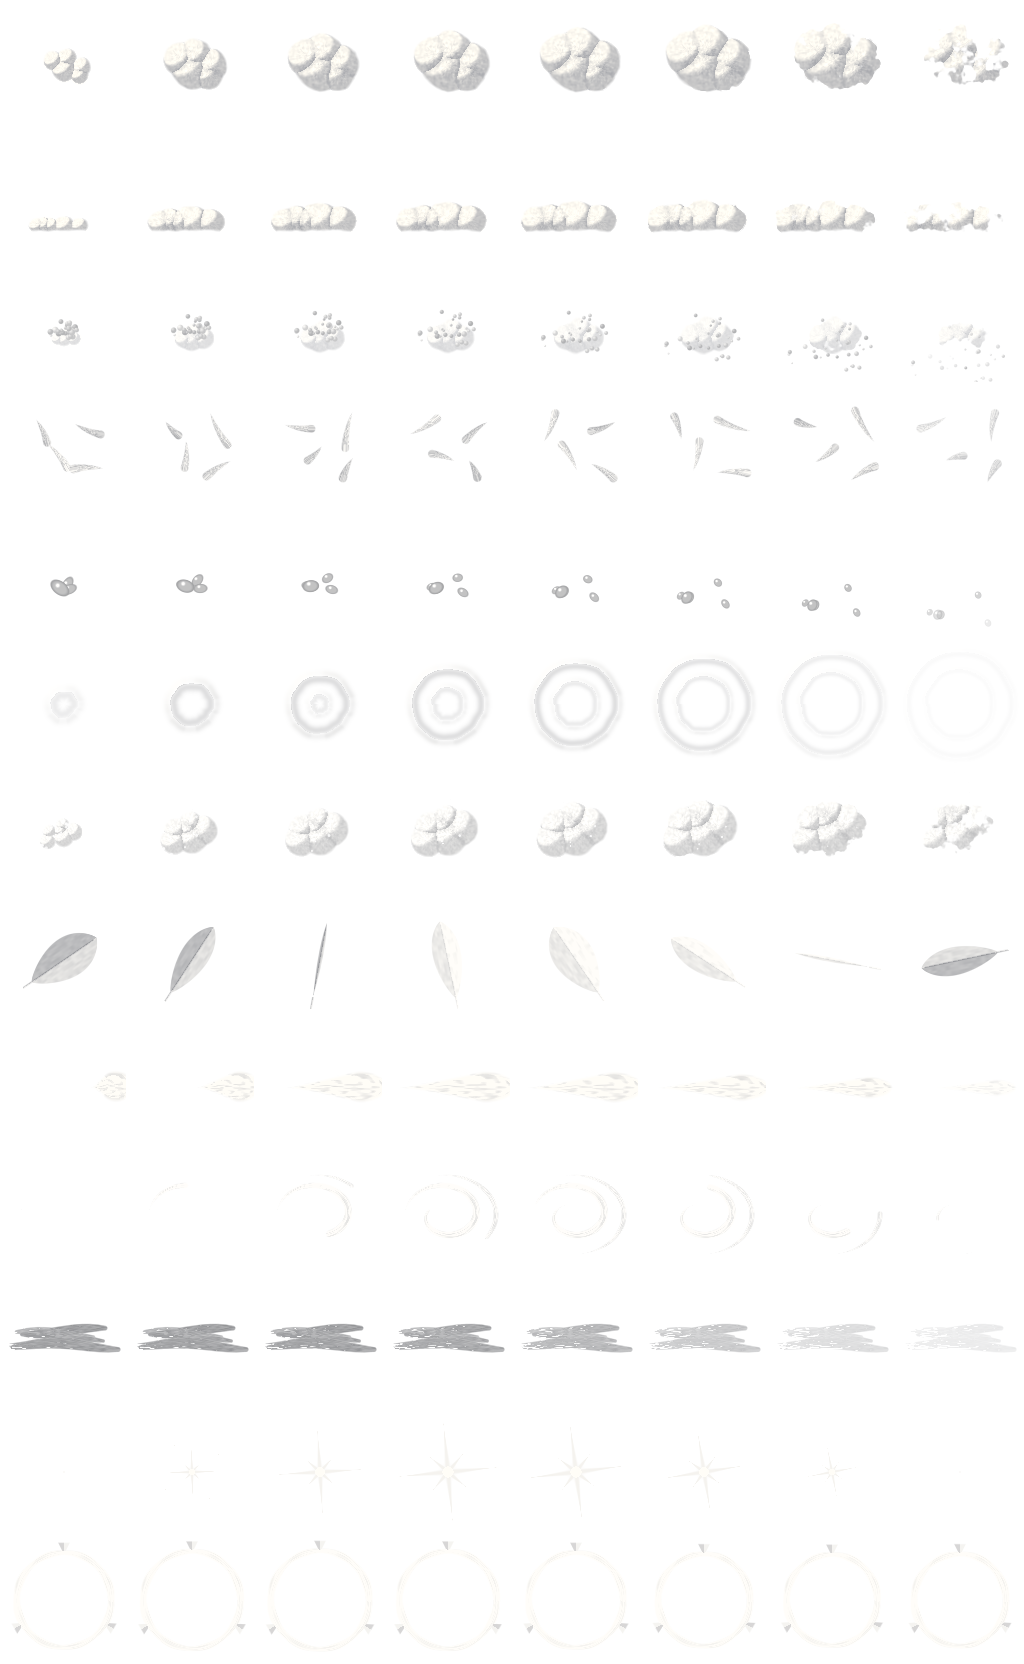
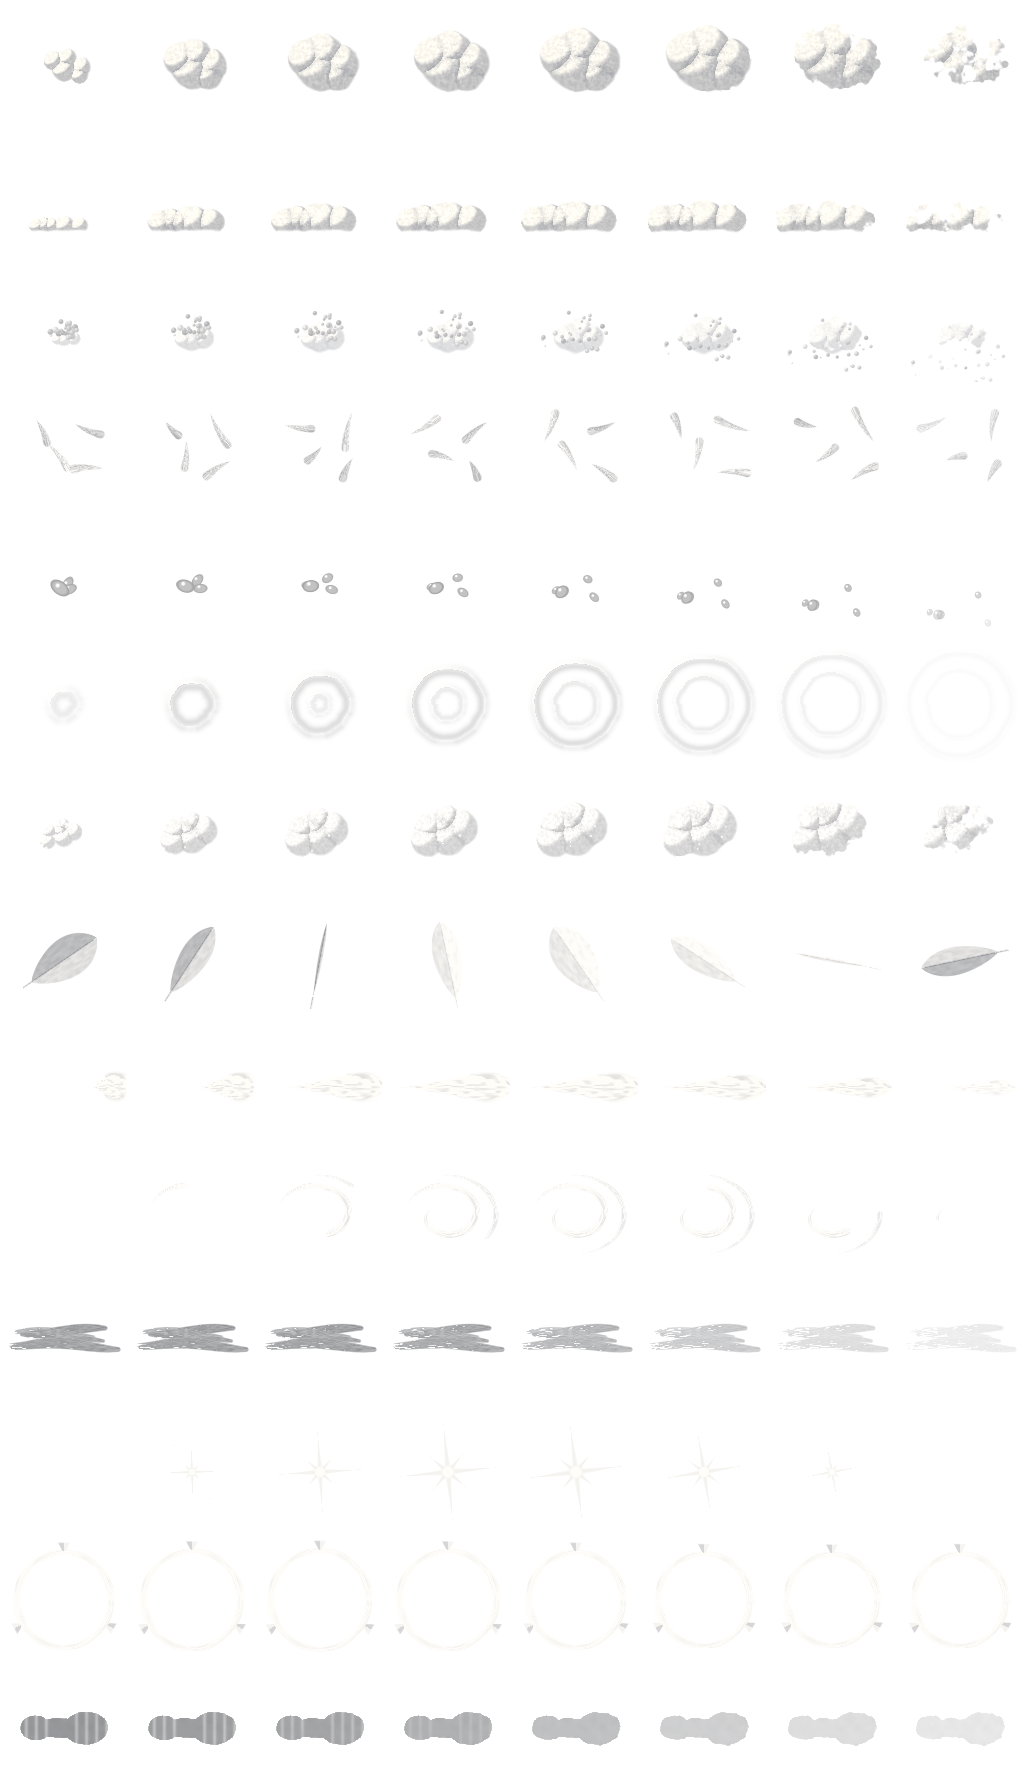
[build] feel 2: footprints on sand, wet sand and snow
A painted footprint joins the pack (build_pack.py, row 13; the other rows are byte-identical): a shoe pressed in,
toe and heel pads, tread bars, a crumbly lip; over its frames the edge crumbles in, the floor fills and the tread goes.
Each foot contact on sand, wet sand or snow leaves one, toe along the facing, pressed in at once (a recipe can now set
its fade-in) and fading after 7 s on sand, 11 in wet sand, 12 in snow. Prints have their own decal layer in the
scene's particle system (160, drawn under the effects), so a burst of dust never pushes one out. Juice: prints.

Claude-Session: https://claude.ai/code/session_01Ld4ptCxPdsb5feV63kLcxw

diff --git a/web/components/game/movement/moveFx.ts b/web/components/game/movement/moveFx.ts
@@ -37,6 +37,8 @@ export const MOVE_JUICE = {
   slideBurst: 1, // the spray of a dash- or land-slide, the pop of a slide-jump
   slideKick: 1.5, // degrees the FOV punches out as a slide starts
   slideDrop: 0.18, // how far the camera's focus drops while sliding (world units)
+  // Milestone 2 (specs/movement-feel.md)
+  prints: 1, // footprints on sand, wet sand and snow
 };
 export type MoveJuice = typeof MOVE_JUICE;
 /** The follow camera's field of view at a walk (the Canvases' camera); speed and dashes widen it from here. */
@@ -58,8 +60,8 @@ export function momentumOf(s: { mode: string; dashT: number; keep: number; bleed
   return (tech && speed > walkSpeed + 0.05) || speed > sprintSpeed + 0.05 ? "kept" : "";
 }
 export const TAKEOFF = new Set<MoveEvent["kind"]>(["jump", "hop", "long", "dashjump"]);
-/** Particles a scene's system holds at once (all avatars and the ruins' puffs together). */
-const FX_CAPACITY = 384;
+/** Particles a scene's system holds at once (all avatars and the ruins' puffs together), and footprints apart from them. */
+const FX_CAPACITY = 384, PRINT_CAPACITY = 160;
 
 // ── The movement particles: our painted pack, one instanced draw per scene ──
 let packTexture: THREE.Texture | null = null;
@@ -130,19 +132,14 @@ function moveParticleMaterial(): THREE.MeshStandardMaterial {
 }
 
 const camPos = new THREE.Vector3(), camDir = new THREE.Vector3();
-/**
- * The movement particle system (specs/movement-feel.md deliverable 2): a ParticlePool drawn as one instanced quad
- * mesh, sorted back to front, in our pack. Shared by everything in a scene that throws particles (useMoveParticles).
- */
-export class MoveParticles {
-  readonly pool = new ParticlePool(FX_CAPACITY);
+/** One pool drawn as one instanced quad mesh in our pack, sorted back to front. */
+class PoolMesh {
   readonly mesh: THREE.Mesh;
   private readonly geometry = new THREE.InstancedBufferGeometry();
   private readonly attrs: THREE.InstancedBufferAttribute[];
-  private stamp = -1;
   /** Drawn once (empty) with the scene, so its shader compiles at load, not as the first puff hitches a frame. */
   private warm = false;
-  constructor() {
+  constructor(readonly pool: ParticlePool, label: string, renderOrder: number) {
     const quad = new THREE.PlaneGeometry(1, 1);
     this.geometry.index = quad.index;
     for (const name of ["position", "normal", "uv"]) this.geometry.setAttribute(name, quad.getAttribute(name));
@@ -153,19 +150,14 @@ export class MoveParticles {
     });
     this.geometry.instanceCount = 0;
     this.mesh = new THREE.Mesh(this.geometry, moveParticleMaterial());
-    this.mesh.name = "MoveParticles";
+    this.mesh.name = label;
     this.mesh.frustumCulled = false; // placed in the shader; the pool is small
     this.mesh.receiveShadow = true;
-    this.mesh.renderOrder = 3;
+    this.mesh.renderOrder = renderOrder;
     this.mesh.onAfterRender = () => { this.warm = true; };
   }
-  /** Step and draw, once per frame: the first caller's `dt` wins (the avatar's slow motion and pauses), the rest are skipped. */
-  tick(stamp: number, dt: number, camera: THREE.Camera, wind: { x: number; z: number }) {
-    if (stamp === this.stamp) return;
-    this.stamp = stamp;
+  step(dt: number, wind: { x: number; z: number }) {
     this.pool.update(dt, wind.x, wind.z);
-    camera.getWorldPosition(camPos);
-    camera.getWorldDirection(camDir);
     const n = this.pool.write(camPos.x, camPos.y, camPos.z, camDir.x, camDir.y, camDir.z);
     this.geometry.instanceCount = n;
     this.mesh.visible = n > 0 || !this.warm;
@@ -173,6 +165,28 @@ export class MoveParticles {
     for (const a of this.attrs) { a.clearUpdateRanges(); a.addUpdateRange(0, n * 4); a.needsUpdate = true; }
   }
   dispose() { this.geometry.dispose(); }
+}
+/**
+ * The movement particle system (specs/movement-feel.md deliverable 2): a ParticlePool drawn as one instanced quad
+ * mesh, sorted back to front, in our pack, and a second for the footprints (a decal pool, drawn under the effects),
+ * so a burst of dust never pushes out a print. Shared by everything in a scene that throws particles (useMoveParticles).
+ */
+export class MoveParticles {
+  readonly pool = new ParticlePool(FX_CAPACITY);
+  readonly prints = new ParticlePool(PRINT_CAPACITY);
+  private readonly layers = [new PoolMesh(this.prints, "MovePrints", 2), new PoolMesh(this.pool, "MoveParticles", 3)];
+  readonly meshes = this.layers.map(l => l.mesh);
+  private stamp = -1;
+  /** Step and draw, once per frame: the first caller's `dt` wins (the avatar's slow motion and pauses), the rest are skipped. */
+  tick(stamp: number, dt: number, camera: THREE.Camera, wind: { x: number; z: number }) {
+    if (stamp === this.stamp) return;
+    this.stamp = stamp;
+    camera.getWorldPosition(camPos);
+    camera.getWorldDirection(camDir);
+    for (const l of this.layers) l.step(dt, wind);
+  }
+  clear() { this.pool.clear(); this.prints.clear(); }
+  dispose() { for (const l of this.layers) l.dispose(); }
 }
 
 let windOf: IslandWeather | null = null, wind: WorldWind = worldWind("clear");
@@ -194,8 +208,8 @@ export function useMoveParticles(): MoveParticles {
   }, [scene]);
   useEffect(() => {
     const e = SHARED.get(scene)!;
-    if (e.users++ === 0) scene.add(e.fx.mesh);
-    return () => { if (--e.users === 0) { scene.remove(e.fx.mesh); e.fx.pool.clear(); e.fx.dispose(); } };
+    if (e.users++ === 0) scene.add(...e.fx.meshes);
+    return () => { if (--e.users === 0) { scene.remove(...e.fx.meshes); e.fx.clear(); e.fx.dispose(); } };
   }, [scene]);
   // Steps at real time unless an avatar already stepped it this frame (its slow motion and dev pauses win).
   useFrame((state, delta) => fx.tick(state.clock.elapsedTime, Math.min(delta, 0.1), state.camera, liveWind()));

diff --git a/web/lib/game/fx/particles.ts b/web/lib/game/fx/particles.ts
@@ -49,6 +49,8 @@ export interface Recipe {
   jitter?: number;
   /** Height the particles start above the point, [min, max]. */
   rise?: readonly [number, number];
+  /** How fast it fades in, in lives (10: over its first tenth); a footprint is there at once. */
+  fadeIn?: number;
 }
 
 const FRAMES = PACK_COLS;
@@ -86,7 +88,7 @@ export class ParticlePool {
   private readonly rot; private readonly spin; private readonly row; private readonly fps; private readonly frame0;
   private readonly cr; private readonly cg; private readonly cb; private readonly alpha;
   private readonly gravity; private readonly drag; private readonly windK; private readonly lift; private readonly ground;
-  private readonly face; private readonly ax; private readonly az;
+  private readonly face; private readonly ax; private readonly az; private readonly fadeIn;
   private readonly order: Uint16Array; private readonly depth: Float32Array;
 
   constructor(capacity = 384) {
@@ -97,7 +99,7 @@ export class ParticlePool {
     this.rot = f(); this.spin = f(); this.row = f(); this.fps = f(); this.frame0 = f();
     this.cr = f(); this.cg = f(); this.cb = f(); this.alpha = f();
     this.gravity = f(); this.drag = f(); this.windK = f(); this.lift = f(); this.ground = f();
-    this.face = new Uint8Array(capacity); this.ax = f(); this.az = f();
+    this.face = new Uint8Array(capacity); this.ax = f(); this.az = f(); this.fadeIn = f();
     this.order = new Uint16Array(capacity); this.depth = f();
     this.a = new Float32Array(capacity * 4); this.b = new Float32Array(capacity * 4);
     this.c = new Float32Array(capacity * 4); this.d = new Float32Array(capacity * 4);
@@ -135,7 +137,7 @@ export class ParticlePool {
       this.row[i] = sprite; this.fps[i] = r.fps ?? 0; this.frame0[i] = Math.floor(rnd() * FRAMES);
       this.cr[i] = tr; this.cg[i] = tg; this.cb[i] = tb; this.alpha[i] = r.alpha * alpha;
       this.gravity[i] = r.gravity; this.drag[i] = r.drag; this.windK[i] = r.wind; this.lift[i] = r.lift ?? 0; this.ground[i] = groundY;
-      this.face[i] = r.face;
+      this.face[i] = r.face; this.fadeIn[i] = r.fadeIn ?? 10;
       // A streak lies along its direction (or its velocity); a ground decal turns to it.
       this.ax[i] = round ? sx : dirX / dl; this.az[i] = round ? sz : dirZ / dl;
       if (r.face === FACE.ground && !round) this.rot[i] = Math.atan2(-this.az[i], this.ax[i]);
@@ -189,8 +191,8 @@ export class ParticlePool {
       const i = this.order[o], t = this.age[i] / this.life[i], q = o * 4;
       const size = this.size[i] * (1 + (this.grow[i] - 1) * (1 - (1 - t) * (1 - t)));
       const frame = this.fps[i] > 0 ? (this.frame0[i] + Math.floor(this.age[i] * this.fps[i])) % FRAMES : Math.min(FRAMES - 1, Math.floor(t * FRAMES));
-      // Fade in over the first tenth, out over the last third (the flipbook also breaks up as it goes).
-      const fade = Math.min(1, t * 10) * (1 - smooth(0.62, 1, t));
+      // Fade in over the first tenth (or as the recipe says), out over the last third (the flipbook also breaks up as it goes).
+      const fade = Math.min(1, t * this.fadeIn[i]) * (1 - smooth(0.62, 1, t));
       this.a[q] = this.px[i]; this.a[q + 1] = this.py[i]; this.a[q + 2] = this.pz[i]; this.a[q + 3] = this.ground[i];
       this.b[q] = size; this.b[q + 1] = size * this.aspect[i]; this.b[q + 2] = this.rot[i]; this.b[q + 3] = this.row[i] * FRAMES + frame;
       this.c[q] = this.cr[i]; this.c[q + 1] = this.cg[i]; this.c[q + 2] = this.cb[i]; this.c[q + 3] = this.alpha[i] * fade;

diff --git a/web/lib/game/movement/juice.ts b/web/lib/game/movement/juice.ts
@@ -78,7 +78,7 @@ export const stepSound = (g: GroundKind) => GROUND[g].sound;
 
 /** Salts keep two bursts of one event apart. */
 const SALT = { step: 1, rain: 2, kick: 3, extra: 4, ring: 5, plume: 6, dash: 7, side: 8, air: 9, swirl: 10, streak: 11, trail: 12, settle: 13, wisp: 14, ready: 15, splash: 16, ripple: 17, leaf: 18, mantle: 19, scuff: 20, sit: 21,
-  slide: 24, slideSpray: 25, slideScuff: 26, slideBurst: 27, slidePop: 28 };
+  slide: 24, slideSpray: 25, slideScuff: 26, slideBurst: 27, slidePop: 28, print: 29 };
 
 /**
  * A foot comes down: flecks and a mote on grass, a sand kick, a snow puff, a dust puff on soil; nothing on stone or
@@ -269,3 +269,26 @@ export function slidePop(pool: ParticlePool, g: GroundKind, x: number, y: number
   const n = pool.burst(SLIDE_POP, x, y, z, y, 0, 0, amount, GROUND[g].dust, seedAt(x, z, SALT.slidePop), HARD.has(g) ? 0.45 : 1);
   pool.carry(n, vx * 0.25, vz * 0.25);
 }
+
+// ── Footprints (specs/movement-feel.md, milestone 2) ─────────────────
+/** A shoe's print: pressed in at once, the edge crumbling in and the floor filling as it goes (the sprite's frames), then fading. */
+const PRINT: Recipe = { sprite: "footprint", count: [1, 1], life: [7, 7], size: [0.26, 0.26], grow: 1, speed: [0, 0], spread: 0, up: [0, 0], gravity: 0, drag: 0, wind: 0, alpha: 0.75, face: FACE.ground, fadeIn: 2000 };
+/** Which grounds take a print, its tint (darker than the ground: the dent) and how long it lasts (seconds). */
+const PRINTS: Partial<Record<GroundKind, { tint: number; life: number; alpha: number }>> = {
+  sand: { tint: 0xc3a571, life: 7, alpha: 0.7 },
+  wetSand: { tint: 0x8a744f, life: 11, alpha: 0.85 },
+  snow: { tint: 0xb3c2d6, life: 12, alpha: 0.8 },
+};
+export const takesPrints = (g: GroundKind) => !!PRINTS[g];
+/**
+ * A footprint on sand, wet sand or snow where a foot came down at (x, z), its toe the way the body faces: crisp at
+ * first, crumbling and filling in, gone after a few seconds (longest in wet sand and snow). Into the scene's print
+ * pool (its own decal layer); nothing on any other ground.
+ */
+export function footprint(prints: ParticlePool, g: GroundKind, x: number, y: number, z: number, facing: number, amount = 1) {
+  const p = PRINTS[g];
+  if (!p || amount <= 0) return;
+  const r: Recipe = PRINT_BY[g] ??= { ...PRINT, life: [p.life, p.life], alpha: p.alpha };
+  prints.burst(r, x, y, z, y, Math.sin(facing), Math.cos(facing), 1, p.tint, seedAt(x, z, SALT.print), Math.min(1.5, amount));
+}
+const PRINT_BY: Partial<Record<GroundKind, Recipe>> = {};

diff --git a/web/lib/game/movement/juice.test.ts b/web/lib/game/movement/juice.test.ts
@@ -2,7 +2,7 @@ import { describe, expect, it } from "vitest";
 import { ParticlePool } from "@/lib/game/fx/particles";
 import { PACK, PACK_COLS } from "@/lib/game/fx/pack";
 import { Surface } from "@/lib/game/grid";
-import { LAND, dashBurst, footstep, groundUnder, landKind, landing, slideBurst, slidePop, slideTrail, takeoff } from "./juice";
+import { LAND, dashBurst, footprint, footstep, groundUnder, landKind, landing, slideBurst, slidePop, slideTrail, takeoff } from "./juice";
 
 const dry = () => false;
 /** Sprite names written to the pool, sorted (what a move threw). */
@@ -108,5 +108,32 @@ describe("the slide's juice (specs/movement-slide.md)", () => {
     const q = new ParticlePool(64);
     slidePop(q, "soil", 0, 0, 0, 0, 14);
     expect(new Set(thrown(q))).toEqual(new Set(["dustLow"]));
+  });
+});
+
+describe("footprints (movement feel milestone 2)", () => {
+  it("press a print into sand, wet sand and snow, toe along the facing, there at once; nothing on other ground", () => {
+    for (const g of ["sand", "wetSand", "snow"] as const) {
+      const p = new ParticlePool(8);
+      footprint(p, g, 1, 0, 2, Math.PI / 2);
+      p.update(1 / 60, 0, 0); // one frame
+      expect(thrown(p), g).toEqual(["footprint"]);
+      expect(p.c[3], `${g} visible at once`).toBeGreaterThan(0.5); // no fade-in
+      expect(p.d[3]).toBe(1); // lies on the ground
+      expect(Math.cos(p.b[2])).toBeCloseTo(1, 5); // facing +x: the toe (the sprite's +u) along +x
+    }
+    for (const g of ["grass", "soil", "stone", "wood", "water"] as const) {
+      const p = new ParticlePool(8);
+      footprint(p, g, 1, 0, 2, 0);
+      expect(p.alive, g).toBe(0);
+    }
+  });
+  it("last longest in wet sand and snow, then fade; the Juice panel's 0 turns them off", () => {
+    const life = (g: "sand" | "wetSand" | "snow") => { const p = new ParticlePool(8); footprint(p, g, 0, 0, 0, 0); let t = 0; while (p.alive && t < 30) { p.update(0.1, 0, 0); t += 0.1; } return t; };
+    expect(life("wetSand")).toBeGreaterThan(life("sand"));
+    expect(life("snow")).toBeGreaterThan(life("sand"));
+    const off = new ParticlePool(8);
+    footprint(off, "sand", 0, 0, 0, 0, 0);
+    expect(off.alive).toBe(0);
   });
 });

diff --git a/web/components/game/PlayerAvatar.tsx b/web/components/game/PlayerAvatar.tsx
@@ -24,7 +24,7 @@ import { STUCK_TIME, advanceMove, clearSpot, createMoveSim, createMoveState, int
 import { crouchKey, useKeyboardLocked, useMoveKeys } from "@/lib/game/movement/keys";
 import { routePilot, type RouteStep } from "@/lib/game/movement/course";
 import { BASE_FOV, EVENT_CLIP, MOVE_JUICE, TAKEOFF, applyFov, liveWind, momentumOf, screenOf, touchStick, useMoveParticles, type MoveJuice, type MoveTelemetry } from "./movement/moveFx";
-import { cooldownWisp, dashBurst, dashReady as dashBack, footstep, groundUnder, handPuff, landKind, landing, leafBits, puffRing, scuff, settle, slideBurst, slidePop, slideTrail, splash, streak, takeoff, trail, type GroundKind } from "@/lib/game/movement/juice";
+import { cooldownWisp, dashBurst, dashReady as dashBack, footprint, footstep, groundUnder, handPuff, landKind, landing, leafBits, puffRing, scuff, settle, slideBurst, slidePop, slideTrail, splash, streak, takeoff, trail, type GroundKind } from "@/lib/game/movement/juice";
 
 /**
  * The player on the movement kit (specs/movement.md): keys, the touch stick or
@@ -392,8 +392,9 @@ export default function PlayerAvatar({ spawnPosition, player, world, groundHeigh
       f.steps = m.steps;
       if (!sitting && state.mode === "ground" && speed > 0.6 && state.dashT <= 0) {
         const side = m.foot === 0 ? 0.1 : -0.1, a = state.facing, px = x + Math.cos(a) * side + Math.sin(a) * 0.05, pz = z - Math.sin(a) * side + Math.cos(a) * 0.05;
-        // Crouch-walking tiptoes: half the dust and a softer step.
-        const soft = state.crouch ? 0.5 : 1, sound = footstep(pool, groundAt(groundSurface, world, px, pz), px, groundY, pz, state.vx, state.vz, rain, j.footsteps * soft);
+        // Crouch-walking tiptoes: half the dust and a softer step. Sand, wet sand and snow keep a print of the foot.
+        const g = groundAt(groundSurface, world, px, pz), soft = state.crouch ? 0.5 : 1, sound = footstep(pool, g, px, groundY, pz, state.vx, state.vz, rain, j.footsteps * soft);
+        footprint(particles.prints, g, px, groundY, pz, state.facing, j.prints);
         playSFX(sound.name, sound.rate, sound.gain * soft);
       }
     }

diff --git a/web/components/game/movement/MoveLab.tsx b/web/components/game/movement/MoveLab.tsx
@@ -75,7 +75,7 @@ const GROUPS: { name: string; keys: [keyof MoveTuning, ...Range][] }[] = [
 const JUICE_KEYS: [keyof MoveJuice, ...Range][] = [["camLead", 0, 0.4, 0.01], ["fovKick", 0, 10, 0.5], ["dashKick", 0, 8, 0.5], ["squash", 0, 2, 0.05],
   ["anticipation", 0, 2, 0.05], ["footsteps", 0, 2, 0.05], ["takeoff", 0, 2, 0.05], ["landing", 0, 2, 0.05], ["camDip", 0, 3, 0.1],
   ["dashBurst", 0, 2, 0.05], ["streaks", 0, 2, 0.05], ["afterimage", 0, 1, 1], ["cooldown", 0, 2, 0.05],
-  ["slideTrail", 0, 2, 0.05], ["slideBurst", 0, 2, 0.05], ["slideKick", 0, 6, 0.25], ["slideDrop", 0, 0.5, 0.01]];
+  ["slideTrail", 0, 2, 0.05], ["slideBurst", 0, 2, 0.05], ["slideKick", 0, 6, 0.25], ["slideDrop", 0, 0.5, 0.01], ["prints", 0, 1.5, 0.05]];
 /** Dash shapes to compare (row 250), about the same reach each: only the dash values change. */
 const DASH_PRESETS: Record<string, Partial<MoveTuning>> = {
   // The shipped dash (MOVE_TUNING), so "current preset" keeps matching when the defaults are retuned.

diff --git a/web/lib/game/fx/pack.ts b/web/lib/game/fx/pack.ts
@@ -2,7 +2,7 @@
 /** Our particle pack (specs/movement-feel.md deliverable 1): one row of 8 frames per sprite, 128 px cells. */
 export const PACK_URL = "/assets/fx/move-pack.webp";
 export const PACK_COLS = 8;
-export const PACK_ROWS = 13;
+export const PACK_ROWS = 14;
 export const PACK = {
   dust: { row: 0, frames: 8 } /* dust puff */,
   dustLow: { row: 1, frames: 8 } /* low dust burst (hugs the ground) */,
@@ -17,5 +17,6 @@ export const PACK = {
   scuff: { row: 10, frames: 8 } /* skid scuff (lies on the ground) */,
   sparkle: { row: 11, frames: 8 } /* tiny sparkle */,
   marker: { row: 12, frames: 8 } /* ground marker (target) */,
+  footprint: { row: 13, frames: 8 } /* footprint (lies on sand, snow) */,
 } as const;
 export type SpriteName = keyof typeof PACK;

diff --git a/art/fx/build_pack.py b/art/fx/build_pack.py
@@ -464,6 +464,25 @@ def marker(t):
     return A, colour(np.clip(val, 0, 1), 0.5)
 
 
+def footprint(t):
+    """A shoe pressed into sand or snow, seen from above, the toe along +u: a toe pad and a heel joined by a narrow waist,
+    its floor darker than the ground with faint tread lines across it, a crumbly lip of pushed-up ground round it. Over
+    its life the edge crumbles in, the floor fills and the tread goes, until it is a soft dent."""
+    toe = ((U - 0.34) / 0.36) ** 2 + (V / 0.27) ** 2
+    heel = ((U + 0.44) / 0.25) ** 2 + (V / 0.205) ** 2
+    waist = ((U + 0.04) / 0.52) ** 2 + (V / 0.16) ** 2
+    field = np.minimum(np.minimum(toe, heel), waist)
+    n = fbm(U * 7 + 3, V * 7 + 5, 1616)
+    crumble = (n - 0.5) * (0.18 + 0.7 * t)
+    inside = ss(1.0, 0.84, field + crumble)
+    lip = np.clip(ss(1.55, 1.08, field + crumble * 1.4) - inside, 0, 1) * (0.55 + 0.45 * vnoise(U * 14, V * 14, 1617))
+    tread = (0.5 + 0.5 * np.sin(U * 40)) ** 3 * ss(-0.04, 0.04, np.abs(U + 0.05) - 0.15)   # bars across the toe and heel, not the waist
+    floor = 0.58 + 0.16 * tread * (1 - ss(0.1, 0.55, t)) + 0.28 * ss(0.2, 1.0, t) + 0.05 * (n - 0.5)
+    A = inside * (0.9 - 0.42 * t) + lip * 0.5 * (1 - ss(0.3, 1.0, t))
+    val = np.where(inside > lip, floor, 1.04)
+    return np.clip(A, 0, 1), colour(np.clip(val, 0, 1.05), 0.3)
+
+
 # ---------------------------------------------------------------- the pack
 # name, painter, what it is (one row each, FRAMES frames). Append only: rows are indices in the engine.
 SPRITES = [
@@ -480,6 +499,7 @@ SPRITES = [
     ("scuff", scuff, "skid scuff (lies on the ground)"),
     ("sparkle", sparkle, "tiny sparkle"),
     ("marker", marker, "ground marker (target)"),
+    ("footprint", footprint, "footprint (lies on sand, snow)"),
 ]
 
 # How the sheet shows each row: the tint the engine gives it and the ground behind it.
@@ -489,6 +509,7 @@ SHEET = {
     "snow": ("#f4f8fc", "#b8c4d0"), "leaf": ("#c98a4b", "#8fa16c"), "streak": ("#ffffff", "#8fa16c"),
     "swirl": ("#f6fbff", "#8fa16c"), "scuff": ("#ba9664", "#ba9664"), "sparkle": ("#fff6dc", "#5f7a55"),
     "marker": ("#fff4c8", "#8c8577"),
+    "footprint": ("#c9ad78", "#e2cb93"),
 }
 
 
